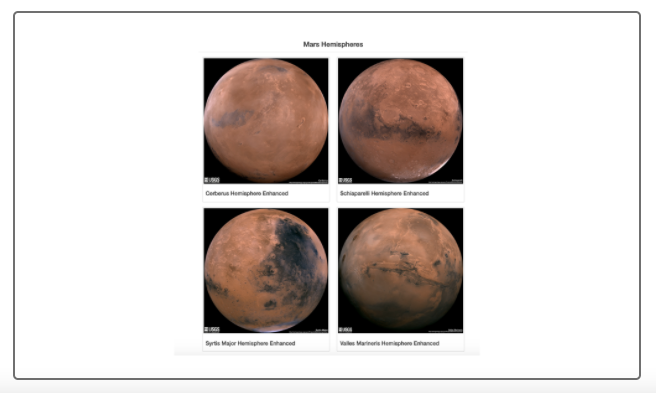
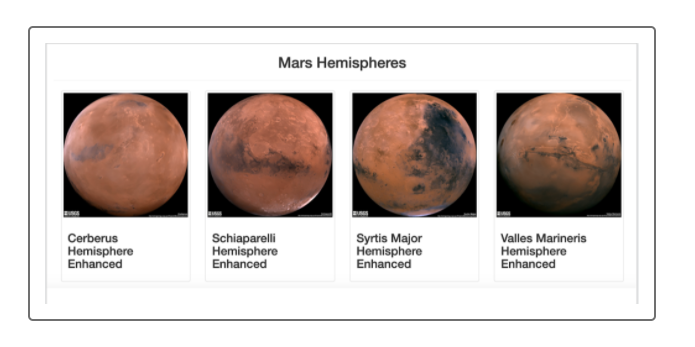
Challenge Deliverables 10

diff --git a/templates/index.html b/templates/index.html
@@ -61,13 +61,14 @@
         </div>
 
         {% for hemisphere in mars.hemispheres %}
-        <div class="col-md-6">
-          <div class="thumbnail">
-            <img src="{{hemisphere.img_url | default('static/images/error.png', true)}}" alt="...">
-            <div class="caption">
-              <h3>{{hemisphere.title}}</h3>
+        <!-- <div class="col-md-6"> -->
+          <div class="col-md-3 col-sm-6 col-xs-12">
+            <div class="thumbnail">
+              <img src="{{hemisphere.img_url | default('static/images/error.png', true)}}" alt="...">
+              <div class="caption">
+                <h4>{{hemisphere.title}}</h4>
+              </div>
             </div>
-          </div>
         </div>
         {% endfor %}
       </div>
